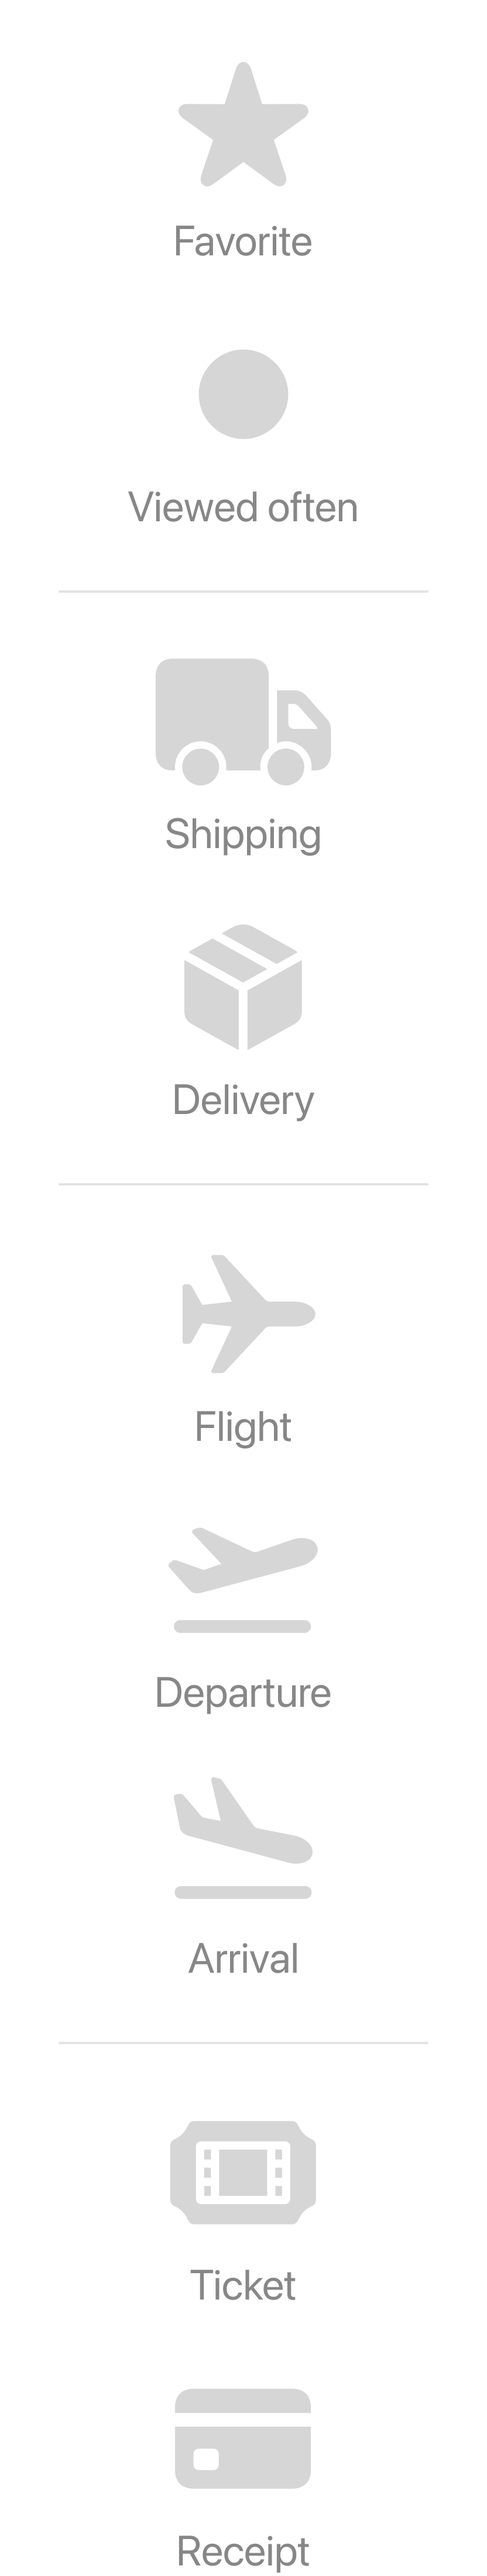
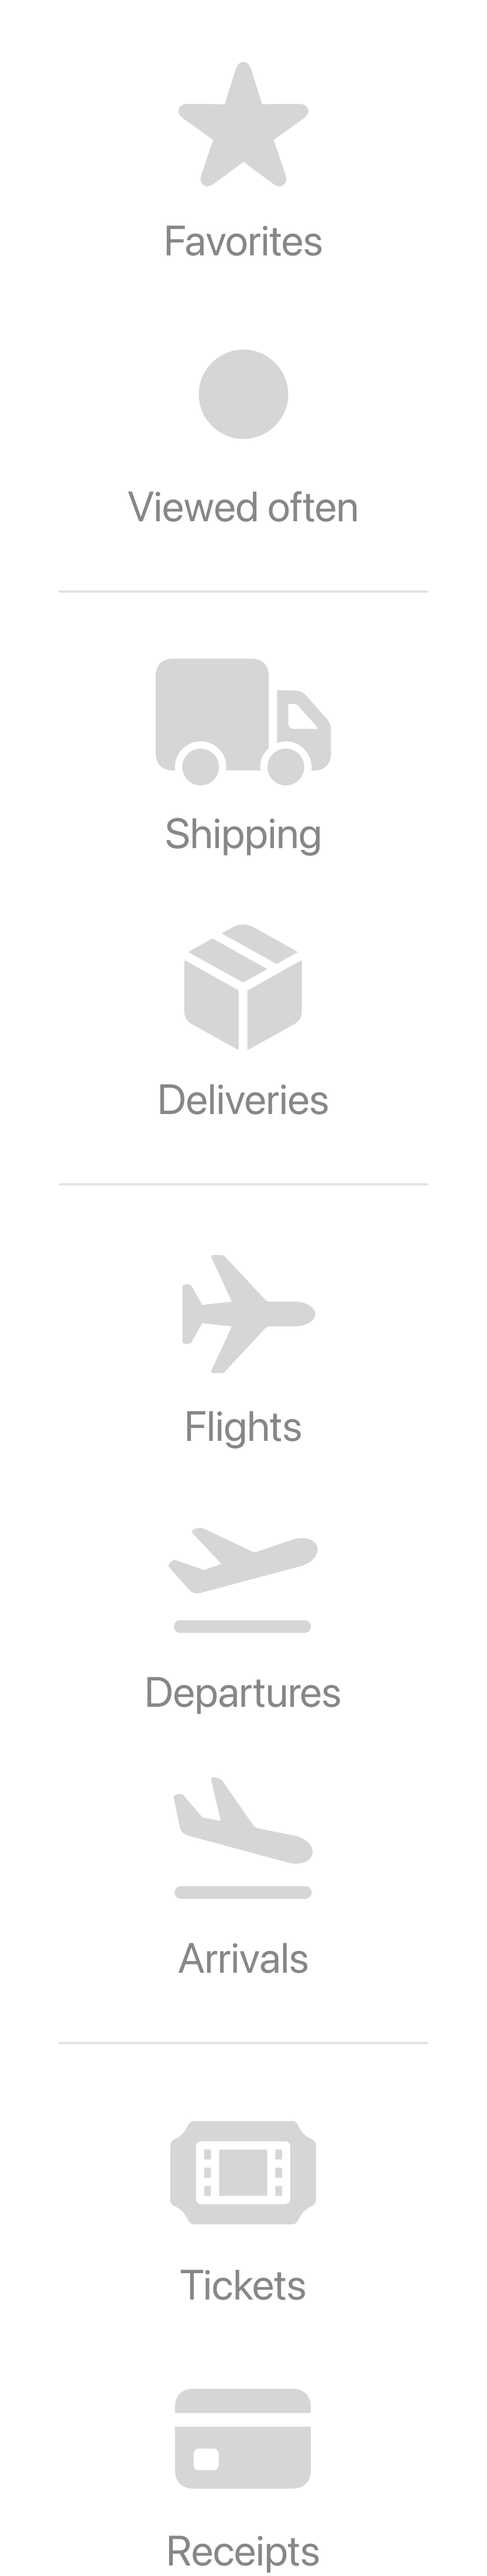
sift fixes

diff --git a/sift-mail.html b/sift-mail.html
@@ -68,7 +68,7 @@
             <header>
                 <h1>Touch what's important.</h1>
                 <p>
-                    Sift let's you sort mail just like at home. By scanning mail previews, go through a hundred emails in just minutes. Pull out what looks important—and toss what's not.
+                    Sift lets you sort mail just like at home. By scanning mail previews, go through a hundred emails in just minutes. Pull out what looks important—and toss what's not.
                 </p>
             </header>
         </header>
@@ -102,7 +102,7 @@
             </div>
         </section>
         <div class="above-text extra-padding">
-            <h4 class="secondary">For every category.</h4>
+            <h4 class="secondary">Indicators for every category.</h4>
             <div class="holder special">
                 <img src="Im/sift-indicators.webp" class="hide-mobile">
                 <img src="Im/sift-indicators-2.webp" class="hide-desktop">
@@ -112,7 +112,7 @@
             <div class="text">
                 <strong class="dark-purple">Design</strong>
                 <p>
-                    The sift dial is composed of icons, contact images, or sender initials. It can be used to swipe quickly through your inbox, or you can go through email one by one by touching the previews themselves. Just tap to open.
+                    The Sift dial is composed of icons, contact images, or sender initials. It can be used to swipe quickly through your inbox, or you can go through email one by one by touching the previews themselves. Just tap to open.
                 </p>
             </div>
             <div class="text">
@@ -134,7 +134,7 @@
             <h2>Trash junk faster<br>than ever.</h2>
             <h6>
                 Physical junk mail has a predictable look, and that look continues to be distinguishable even in the digital world. Font, color, formatting — our eyes recognize and sort visual patterns quickly into groups.<br><br> 
-                After studying the top latest 50 emails of ten family members, I found digital mail has these same cues — which current mail clients do not take advantage of. Because of its speed sorting through hundreds of emails, Sift is designed to please both the ‘inbox zero’ sorter and more relaxed checkers.
+                After studying the latest 50 emails of ten family members, I found digital mail has these same cues, which current mail clients do not take advantage of. Because of Sift allows you to quickly preview hundreds of emails at a time, it could please the everyday checker and the ‘inbox zero’ person.
             </h6>
         </section>
         <div class="side-text">
@@ -168,7 +168,7 @@
             <div class="text">
                 <strong class="dark-purple">Swipe Down to Sort</strong>
                 <p>
-                    Sift allows you to quickly sort emails into folders with a simple swipe down gesture. Since swiping up is used to trash emails, so swiping in the opposite direction to file emails makes exists as it’s intuitive opposite.
+                    Sift allows you to quickly sort emails into folders with a simple swipe down gesture. Since swiping up is used to trash emails, so swiping in the opposite direction to file emails exists as its intuitive opposite.
                 </p>
             </div>
         </div>
@@ -193,7 +193,7 @@
             <div class="text">
                 <strong class="dark-purple">Iterations</strong>
                 <p>
-                    Initially, I focused on a multitasking interface. Despite many iterations, this approach was better for clearing, not sorting.  I finally opted for an unobstructed mail preview, allowing Sift to better fit into the iOS mail client. Then people can toggle between list and sift views to suit their needs.
+                    Initially, I replicated the multitasking interface from iOS. Despite making it through many iterations, this approach was ultimately better for clearing, not really sorting.  I finally opted for an unobstructed mail preview, allowing Sift to better fit into the iOS mail client. It also gives people the option to toggle between list and sift views to best suit their needs.
                 </p>
             </div>
         </div>
